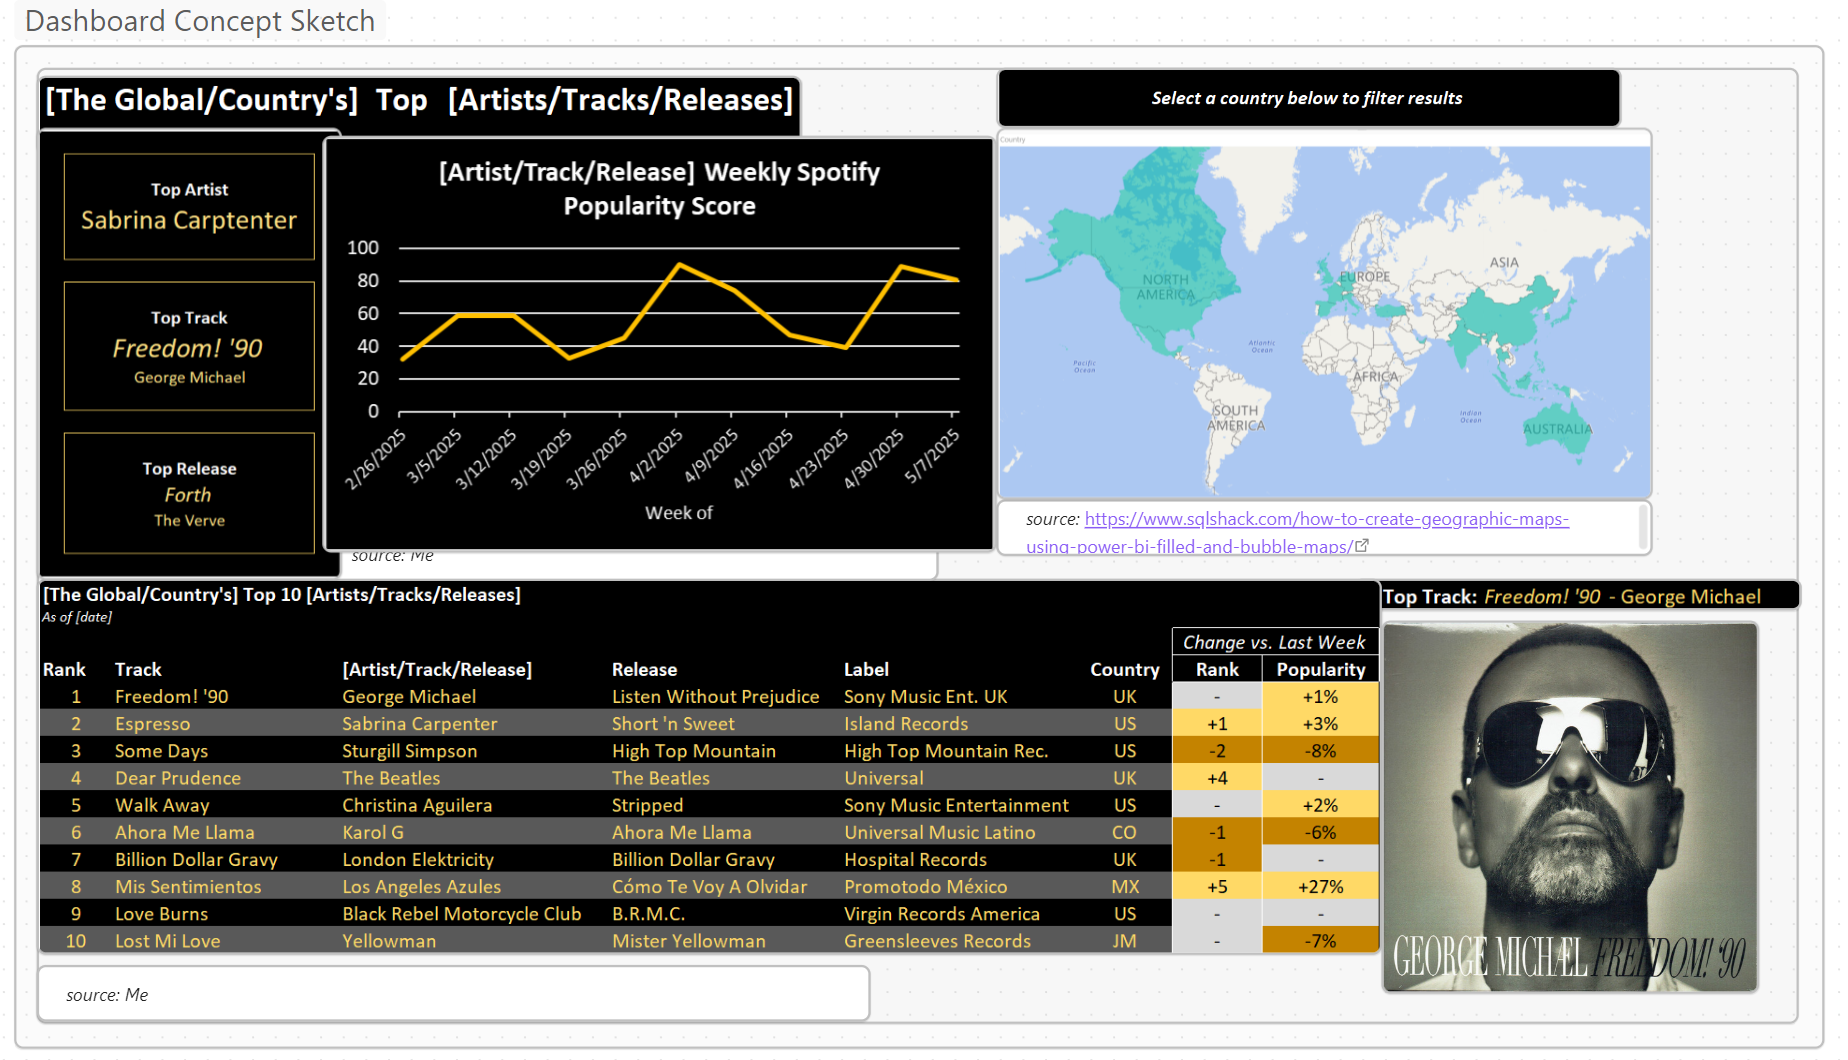
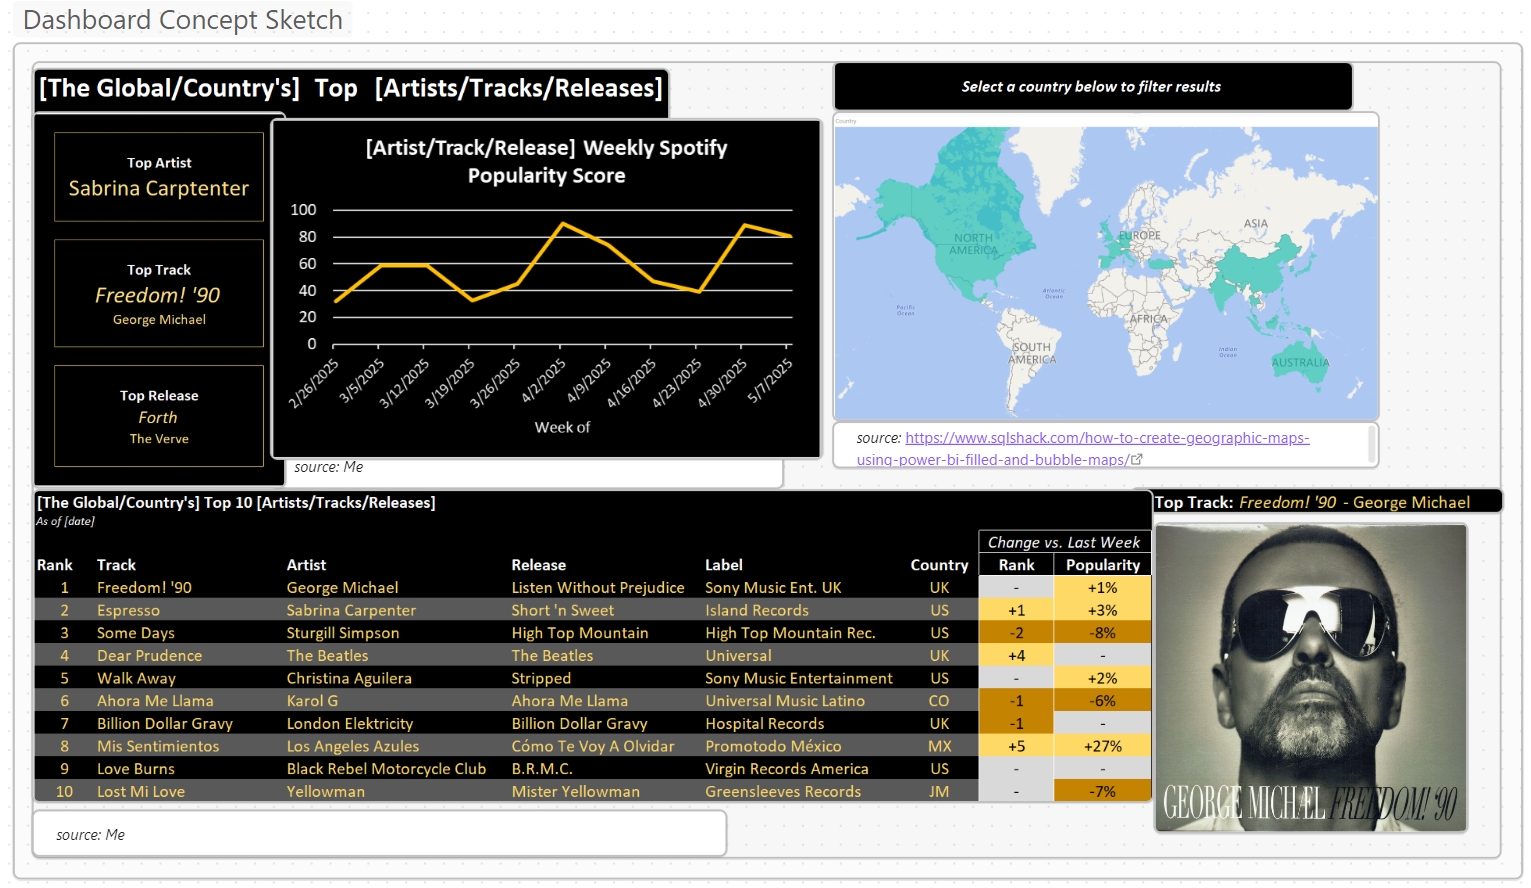
Data Flow visual; SQLite schema; narrowed dashboard scope
- Revamped the original Canvas draft and instead made the [[Data Flow visual]] that depicts how data will ultimately flow to the music dashboard
	- This is "on paper", i.e. before coding has been done, but I wanted a roadmap to be established for both myself and for documentation purposes
- Replaced API terminology to reflect standard vocabulary (versus what I was originally calling it)
- Refined the [[$Project Process Steps]] note
- Researched and integrated how the 'ytmusicapi' Python package will be used to complement Spotify's API for the music dashboard
- Narrowed scope of the dashboard to just reflect Top Tracks and Top Artists in the available countries (via YouTube Music)
- The first pass of designing the SQLite database schema was completed

Changed region(s): [[0.0, 0.0, 1.0, 1.0]]

diff --git a/notebooks/$Project Log.md b/notebooks/$Project Log.md
@@ -1,34 +1,57 @@
 
 Tags: [[personal projects]] [[music dashboard project]] #programming 
 
+## **Project Log**
 
-- [ ] make an outline of visualizations and features of dashboard
-- [x] ~~take notes on Spotify API~~
+#### 7/17/2025
+- Polished [[Data Flow visual]]
+	- condensed entities
+	- straightened and aligned boxes
 
-### 6/23/2025
+#### 7/16/2025
+- Finished [[Data Flow visual]]
+- Finished first draft of the database schema
+#### 7/15/2025
+- Started an ETL process visual
+
+#### 7/9/2025
+- Researched the `ytmusicapi` Python library and its capabilities. 
+	- Unfortunately, a YouTube Music Premium subscription is going to be required to get song titles from global and by-country charts, and
+	- Only artists and their standings will be able to be returned without a Premium subscription
+- <font color="#00b050"> So obviously the question is, do I move forward using these limitations or reduce the scope of the dashboard?</font>
+	- I think getting the top tracks is a pretty critical part of the dashboard and thus a subscription is going to have to be needed for a couple months to at least get some solid data to store
+- 'Top Releases' as a feature dropped from the scope of the project - not feasible from data sources, and project needs to move on
+- Confirmed the exact API calls and responses in the context of inputs and outputs for the dashboard. Theoretically, everything makes sense so far from a systems standpoint.
+
+#### 6/26/2025
+- made extensive additions to the [[Data Sources visual.canvas|Data Sources visual]] map
+- found and used community plugins to enhance readability and design of the map
+#### 6/25/2025 
+- finally made the initial commit to GitHub
+#### 6/23/2025
 - started project outline on Canvas
 - decided to separate out API notes into their own (atomic) notes for each call I want, so that they can be linked more efficiently and better visually
-
-### 6/18/2025
+#### 6/18/2025
 - finished dashboard concept - we'll call it the first draft
 	- added track/release art space
 	- moved some visualizations around
 	- added a basic color scheme (white for headers, beige-yellow for values)
 - **need to start pushing Git commits!**
-### 6/17/2025
+#### 6/17/2025
 - decided pursuing last.fm's genre tags wasn't going to be worth it. [[$Project Insights-Mistakes-Frustrations]]
 - finished most of the dashboard's initial visual concept
-
-### 6/12/2025
+#### 6/12/2025
 - made an outline of visualizations and features for dashboard using other music streaming services' as inspiration
 - explored MusicBrainz API and capability for enhancing the dashboard (namely artist country origin)
 
-## Backlog
+## **Backlog**
 
 - [ ] what exactly is the MVP?
-- [ ] build technical map of how the two APIs will be joined
-- [ ] sketch technical diagram of dashboard
-- [ ] explore the 'ytmusicapi' Python library more and see if it'd be a net positive for the project ([sigma67/ytmusicapi: Unofficial API for YouTube Music](https://github.com/sigma67/ytmusicapi))
+- [ ] COMMIT!
+- [x] ~~build technical map of how the APIs will be joined within visualizations~~
+- [x] ~~build out database schema for storing API responses~~
+- [x] ~~explore the 'ytmusicapi' Python library more and see if it'd be a net positive for the project ([sigma67/ytmusicapi: Unofficial API for YouTube Music](https://github.com/sigma67/ytmusicapi))~~
+- [x] ~~sketch technical diagram of dashboard~~
 - [x] ~~install last.fm~~
 - [x] ~~take notes on last.fm API~~
 

diff --git a/notebooks/$Project Insights-Mistakes-Frustrations.md b/notebooks/$Project Insights-Mistakes-Frustrations.md
@@ -5,6 +5,11 @@ Tags: [[personal projects]] [[music dashboard project]] #programming
 
 ## **Insights**
 
+### 7/16/2025
+- After a lot of testing, the Excalidraw community plugin for Obsidian, a mindmapping plugin, is definitely superior to Obsidian's native Canvas feature, which is much more limiting. I played around and spent too much time going back and forth between the two to build out the Data Flow visual, but I'm really happy with how it turned out, at least for a first pass, in Excalidraw; I wouldn't have been able to make it look so clean in Canvas.
+### 6/26/2025
+- I am thoroughly enjoying Obsidian and its Canvas note type for visualization the project coming together. I wouldn't be surprised if multiple canvases are made. I wish I had used this software sooner!
+
 ### 6/17/2025
 - I need to start taking more notes on my thoughts/feelings/insights/mistakes throughout this project's journey, not only to help me learn better, but also for:
 	- posterity's sake, so that I can retain the lessons in the future
@@ -14,10 +19,18 @@ Tags: [[personal projects]] [[music dashboard project]] #programming
 - I just noticed that there's an "unofficial" API for YouTube Music via a Python library, and there might be some useful features or complement or replace existing ones I've sketched out.
 
 ## **Decisions**
+
+### 7/16/2025
+- Using Excalidraw, not Canvas, for all visual sketching go-forward
+### 7/9/2025
+- Viewing Top Releases as a feature unfortunately needs to be abandoned as the YouTube Music API doesn't have a Top Releases chart. As much as I wanted to included this feature it's not critical to the project and I need to move on.
+
 ### 6/17/2025
 - Abandoned genre tagging with last.fm. Too unreliable (last.fm tagging), no evidence that it's well-correlated with Spotify's popularity metric. The juice ain't worth the squeeze for this feature, at least as of now.
 
 ## **Struggles/Frustrations**
+### 7/9/2025
+- The `ytmusicapi` library is great but YouTube Music itself is limiting only top artists by country or globally for free; a YouTube Music Premium subscription is required to fetch the songs. I don't mind paying $15 for the next few months for the project, but my intention was to have this project live as long as possible. So, a decision needs to be made about how to music forward, and time is of the essence.
 
 ## **Mistakes**
 ### 6/25/2025
@@ -29,4 +42,6 @@ Tags: [[personal projects]] [[music dashboard project]] #programming
 
 
 ## Connected Notes / References
+[[$Development Notes]]
+[[$Project Log]]
 

diff --git a/notebooks/SQLite Schema.md b/notebooks/SQLite Schema.md
@@ -1,0 +1,57 @@
+2025-05-30 15:43
+
+Tags: [[music dashboard project]] [[databases]]
+
+## Tables
+### `artist`
+**`artist`** table
+
+| attribute          | datatype               |
+| ------------------ | ---------------------- |
+| spotify_artist_id  | char **PK**            |
+| week_ending        | date **PK**, **FK**    |
+| country            | char(2) **PK**, **FK** |
+| artist_name        | char                   |
+| artist_ranking     | int                    |
+| artist_popularity  | int                    |
+| artist_image_url   | text                   |
+| artist_preview_url | text                   |
+
+
+### `track`
+**`track`** table
+
+| attribute         | datatype           |
+| ----------------- | ------------------ |
+| spotify_track_id  | char **PK**        |
+| week_ending       | date **PK, FK**    |
+| country           | char(2) **PK, FK** |
+| track_name        | char               |
+| artist_name       | char               |
+| track_ranking     | int                |
+| track_popularity  | int                |
+| track_image_url   | text               |
+| track_preview_url | text               |
+
+### `time`
+**`time`** table
+
+| attribute   | datatype    |
+| ----------- | ----------- |
+| week_ending | date **PK** |
+| month       | char        |
+| quarter     | char        |
+| year        | char        |
+
+### `country`
+
+**`country`** table
+
+| attribute    | datatype       |
+| ------------ | -------------- |
+| country_code | char(2) **PK** |
+| country_name | char           |
+
+
+## Connected Notes / References
+

diff --git a/notebooks/Feature Breakdown.md b/notebooks/Feature Breakdown.md
@@ -3,17 +3,17 @@
 Tags: [[personal projects]] [[music dashboard project]] [[Spotify]] [[last.fm]]
 
 ## Dashboard Outline
-- **Main Header (Top Artists, Top Tracks, Top Releases, etc.)**
+- **Main Header (Top Artists, Top Tracks, ~~Top Releases~~, etc.)**
 - **Main Filters**
 - **Cards:**
 	- Top Artist
-	- Top Album
+	- ~~Top Album~~
 	- Top Track
 	**These cards stay static within a country selection.**
 - **Interactive World Map**
 	- country's top artists
 	- country's top tracks
-	- country's top releases
+	- ~~country's top releases~~
 
 - **Top 10 Table**
 	- rank (last.fm)
@@ -35,7 +35,7 @@ Tags: [[personal projects]] [[music dashboard project]] [[Spotify]] [[last.fm]]
 ## Filters
 - date range (week)
 - country (map selection)
-- artist/track/release view
+- artist/track/~~release~~ view
 
 ## Feature Details
 - color coding for increase/decrease
@@ -49,7 +49,7 @@ Tags: [[personal projects]] [[music dashboard project]] [[Spotify]] [[last.fm]]
 
 ## Connected Notes / References
 [[_Project Scope]]
-[[Visualization Source Map.canvas|Visualization Source Map]]
+[[Data Sources visual.canvas|Visualization Source Map]]
 
 
 [How to create geographic maps using Power BI - Filled and bubble maps](https://www.sqlshack.com/how-to-create-geographic-maps-using-power-bi-filled-and-bubble-maps/)

diff --git a/notebooks/_Project Scope.md b/notebooks/_Project Scope.md
@@ -5,20 +5,6 @@ Tags: [[personal projects]] [[music dashboard project]] #programming
 ## Overview
 *Goal*: Create a dashboard (statistics and visualizations) that displays information regarding the most popular music ~~and its genres~~ - artists, tracks, and releases according to Spotify. Have this dashboard contain country-level information and other statistics not normally shown through the user's experience in Spotify.
 
-## Process Steps
-1. [x] Refine goals and scope
-2. [x] Outline dashboard features both visually and on paper
-3. [x] Start Git commits
-4. [ ] Outline technical roadmap/blueprint, from data gathering to visualizations
-	1. [ ] Map out each source of a feature
-	2. [ ] Ensure all required objects via API terms of service (especially Spotify) are met
-5. [ ] Build out project parts (database, API calls, visuals) individually
-6. [ ] Tweak and combine project phases to build the minimum viable project (MVP)
-7. [ ] Extend MVP to full project scope
-8. [ ] Write lessons learned/internal docs on takeaways
-9. [ ] Run testing
-10. [ ] Publish outline of project steps (Jupyter notebook or similar)
-11. [ ] Publish project to GitHub
 
 
 

diff --git a/notebooks/$Project Process Steps.md b/notebooks/$Project Process Steps.md
@@ -1,0 +1,34 @@
+2025-07-09 11:26 AM
+
+Tags: [[music dashboard project]] [[personal projects]] 
+
+## High-Level Process Steps
+
+1. [x] Refine goals and scope
+2. [x] Outline dashboard features both visually and on paper
+3. [x] Start Git commits
+4. [x] Outline technical roadmap/blueprint, from data gathering to visualizations
+	1. [x] Map out each source of a feature
+5. [x] Design database schema
+6. [ ] Build out project parts (database, API calls, visuals) individually
+	1. [ ] SQLite database
+	2. [ ] Python
+		1. [ ] pseudocode
+		2. [ ] production code
+	3. [ ] API calls
+	4. [ ] Power BI visual
+7. [ ] Tweak and combine project phases to build the minimum viable project (MVP)
+8. [ ] Extend MVP to full project scope
+9. [ ] Write lessons learned/internal docs on takeaways
+10. [ ] Run testing
+11. [ ] Publish outline of project steps (Jupyter notebook or similar)
+12. [ ] Publish project to GitHub
+
+
+
+
+
+## Connected Notes / References
+[[$Project Log]]
+[[$Development Notes]]
+[[$Project Insights-Mistakes-Frustrations]]
